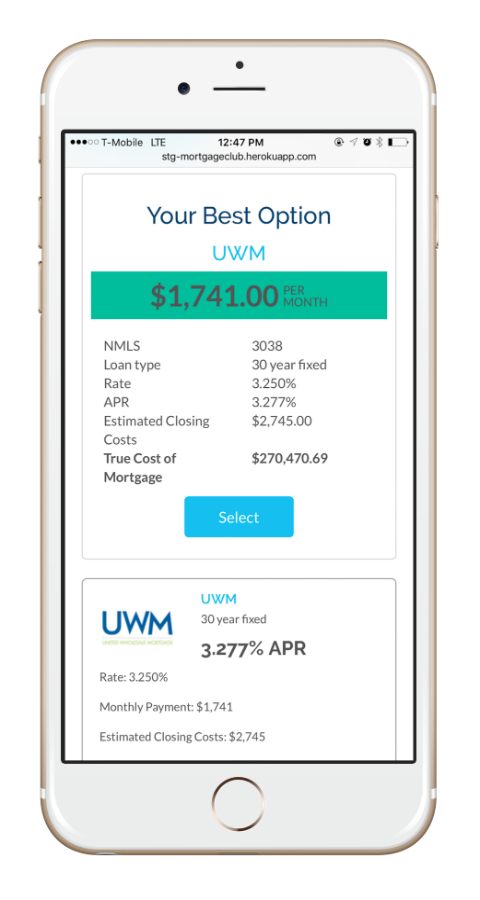
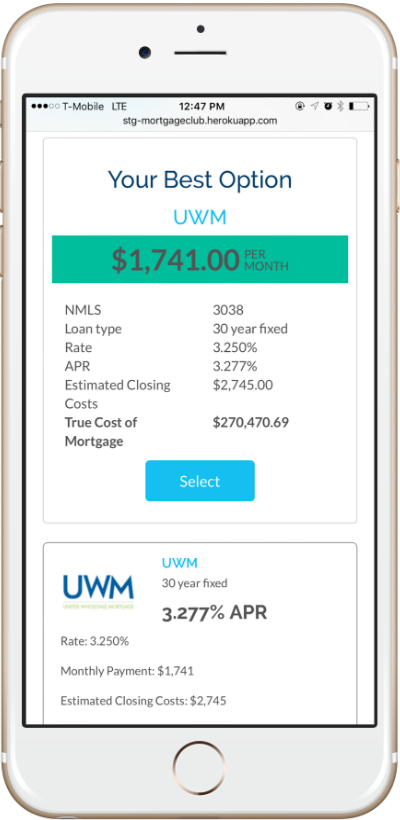
resize and compress images

Changed region(s): [[0.0, 0.0, 1.0, 1.0]]

diff --git a/client/assets/javascripts/public/homepage/HowPart.jsx b/client/assets/javascripts/public/homepage/HowPart.jsx
@@ -21,7 +21,7 @@ var ClientPart = React.createClass({
 
             <div className="col-md-6 clearfix how-item">
 
-              <img src="/HowItWorks_Step_1.png" style={{width: '75%'}}/>
+              <img src="/HowItWorks_Step_1.jpg" style={{width: '75%'}}/>
             </div>
           </div>
 
@@ -35,7 +35,7 @@ var ClientPart = React.createClass({
             </div>
             <div className="col-md-6 clearfix col-md-pull-6 how-item">
 
-              <img src="/HowItWorks_Step_2.png" style={{width: '75%'}}/>
+              <img src="/HowItWorks_Step_2.jpg" style={{width: '75%'}}/>
             </div>
           </div>
 
@@ -50,7 +50,7 @@ var ClientPart = React.createClass({
 
             <div className="col-md-6 clearfix how-item">
 
-              <img src="/HowItWorks_Step_3.png" style={{width: '75%'}}/>
+              <img src="/HowItWorks_Step_3.jpg" style={{width: '75%'}}/>
             </div>
           </div>
 

diff --git a/client/assets/javascripts/public/homepage/ClientPart.jsx b/client/assets/javascripts/public/homepage/ClientPart.jsx
@@ -15,14 +15,14 @@ var ClientPart = React.createClass({
           <div className="clients row">
             <div className="client col-md-4 col-sm-4 col-xs-12 clearfix">
               <p>“We saved a ton of money on fees and our refinancing rate was great. We would highly recommend MortgageClub to our friends.”</p>
-              <img src="/client1.png"/>
+              <img src="/client1.jpg"/>
               <h4>Antonio & Nikki</h4>
               <h6>Alameda, CA</h6>
             </div>
 
             <div className="client col-md-4 col-sm-4 col-xs-12 clearfix">
               <p>“MortgageClub is a delight to work with. Within less than a month from the date of our application, we received a check for our loan.”</p>
-              <img src="/client2.png"/>
+              <img src="/client2.jpg"/>
               <h4>Vinh & Theresa</h4>
               <h6>Danville, CA</h6>
             </div>
